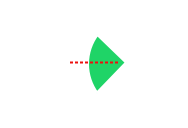
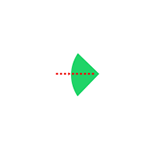
Modif icone mission et responsive page unique

Changed region(s): [[0.3733, 0.2812, 0.6667, 0.7188]]

diff --git a/assets/css/page-unique-dg.css b/assets/css/page-unique-dg.css
@@ -544,6 +544,14 @@ button svg {
 
 
 /******************** Responsive ********************/
+@media screen and (max-width: 1366px) {
+    div.info img {
+        width: 90%;
+    }
+    div.intro p {
+        font-size: 18px;
+    }
+}
 @media screen and (max-width: 1200px) {
     header.main-header div.logo-fp {
         right: 2%;
